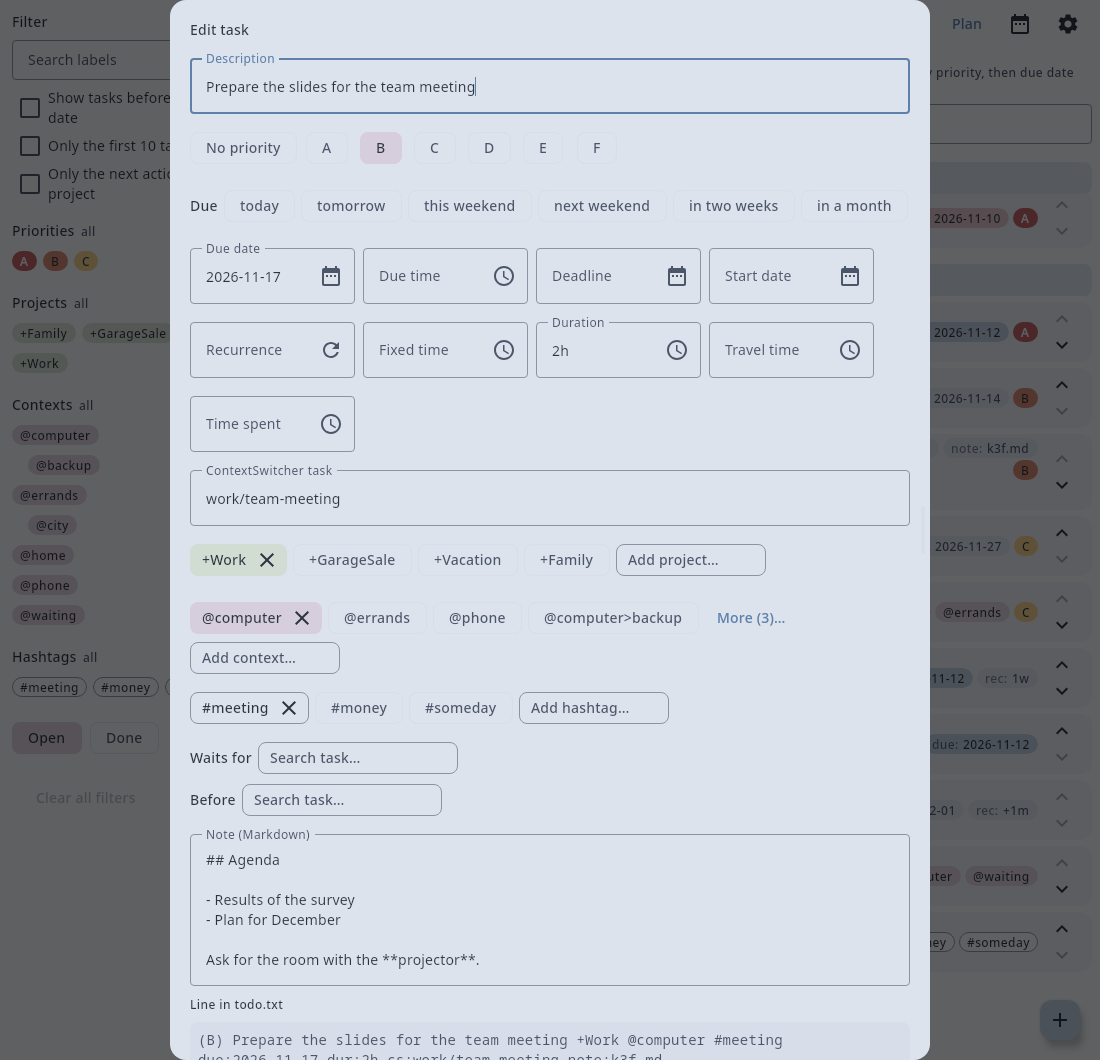
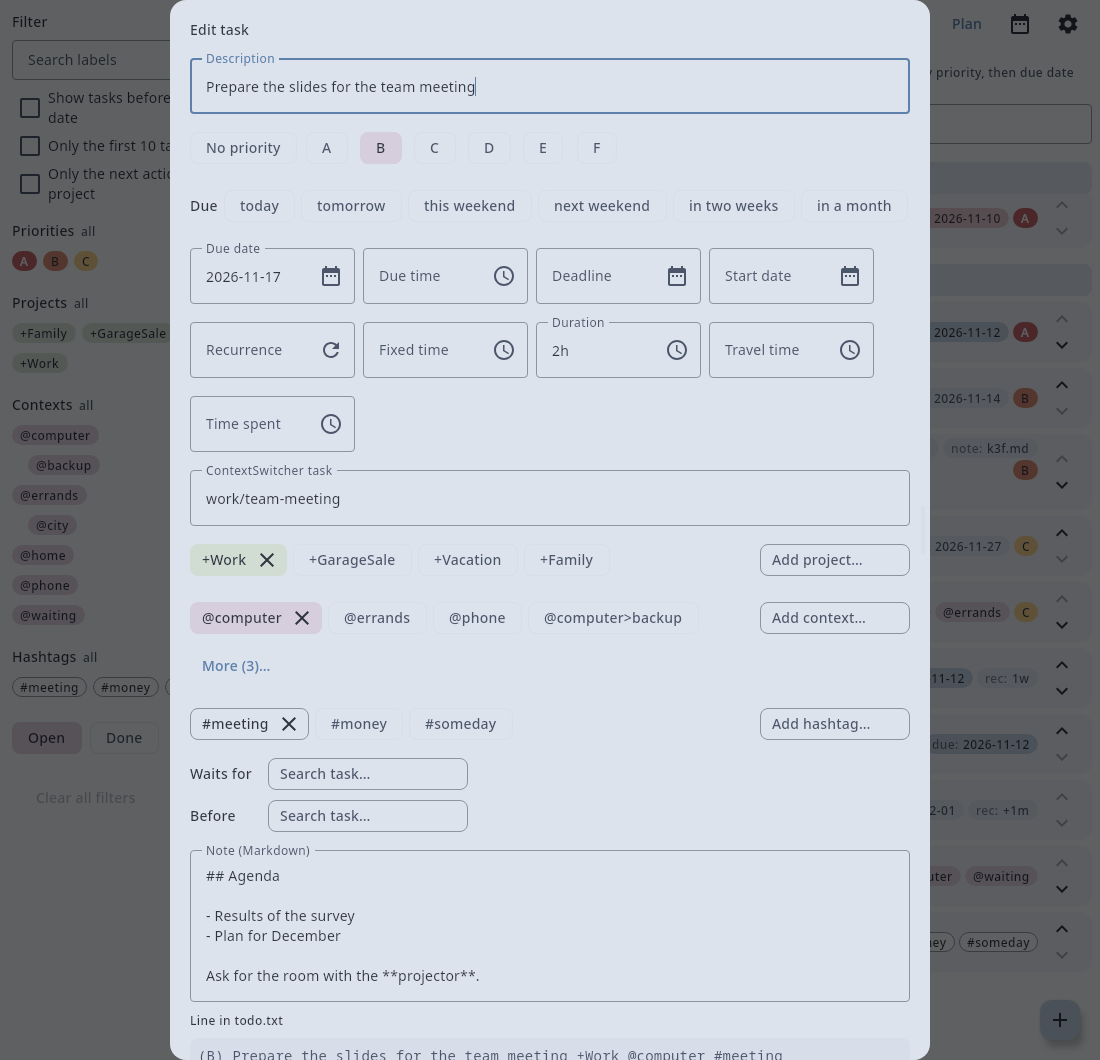
Align the add fields and the dependency fields in the task dialog
In a wide dialog, the fields to add a project, a context or a hashtag stand at the right end of their rows, one below the other, instead of after the last chip; a narrow one keeps them after the chips. The labels Waits for and Before have one width, so that their search fields start at the same place.

diff --git a/app/src/commonMain/kotlin/io/github/koppor/koppter/ui/EditDialog.kt b/app/src/commonMain/kotlin/io/github/koppor/koppter/ui/EditDialog.kt
@@ -16,6 +16,7 @@ import androidx.compose.foundation.interaction.MutableInteractionSource
 import androidx.compose.foundation.interaction.collectIsHoveredAsState
 import androidx.compose.foundation.layout.Arrangement
 import androidx.compose.foundation.layout.Box
+import androidx.compose.foundation.layout.BoxWithConstraints
 import androidx.compose.foundation.Image
 import androidx.compose.foundation.layout.height
 import androidx.compose.runtime.key
@@ -776,7 +777,8 @@ private fun TaskChoice(label: String, chosen: Set<Int>, others: List<Entry>, onC
     // Without text no suggestions: a file has too many tasks to offer them all.
     val suggestions = if (input.isBlank()) emptyList() else others.filter { !it.task.completed && it.index !in chosen && it.task.description.contains(input.trim(), ignoreCase = true) }.take(5)
     FlowRow(horizontalArrangement = Arrangement.spacedBy(6.dp)) {
-        Text(label, style = MaterialTheme.typography.labelLarge, modifier = Modifier.align(Alignment.CenterVertically))
+        // A fixed width, so that the search fields of *Waits for* and *Before* start at the same place.
+        Text(label, style = MaterialTheme.typography.labelLarge, modifier = Modifier.align(Alignment.CenterVertically).width(72.dp))
         for (entry in others.filter { it.index in chosen }) {
             InputChip(
                 selected = true,
@@ -839,36 +841,7 @@ private fun NameList(
     val top = if (input.isBlank()) matching.sortedByDescending { uses["$sign$it"] ?: 0 }.take(TOP_NAMES) else matching
     val rest = if (input.isBlank()) matching - top.toSet() else emptyList()
     val colors = MaterialTheme.colorScheme
-    FlowRow(horizontalArrangement = Arrangement.spacedBy(6.dp)) {
-        for (name in names) {
-            InputChip(
-                selected = true,
-                onClick = { onChange(names - name) },
-                label = { Text("$sign$name") },
-                trailingIcon = { Icon(Icons.Default.Close, contentDescription = "Remove $kind $name") },
-                colors = InputChipDefaults.inputChipColors(
-                    selectedContainerColor = chipColors.first,
-                    selectedLabelColor = chipColors.second,
-                    selectedTrailingIconColor = chipColors.second,
-                ),
-                border = if (outlined) InputChipDefaults.inputChipBorder(true, selected = true, selectedBorderColor = colors.outline, selectedBorderWidth = 1.dp) else null,
-                modifier = Modifier.testTag("$tag-$name"),
-            )
-        }
-        for (name in top) {
-            SuggestionChip(onClick = { add(name) }, label = { Text("$sign$name") }, modifier = Modifier.testTag("$tag-suggest-$name"))
-        }
-        if (rest.isNotEmpty()) {
-            // A button, not a chip: as a chip it read as one more name.
-            TextButton(onClick = { more = !more }, modifier = Modifier.testTag("$tag-more")) { Text(if (more) "Less" else "More (${rest.size})…") }
-        }
-        if (more && rest.isNotEmpty()) {
-            Row(Modifier.fillMaxWidth().horizontalScroll(rememberScrollState()).testTag("$tag-rest"), horizontalArrangement = Arrangement.spacedBy(6.dp)) {
-                for (name in rest) {
-                    SuggestionChip(onClick = { add(name) }, label = { Text("$sign$name") }, modifier = Modifier.testTag("$tag-suggest-$name"))
-                }
-            }
-        }
+    val field: @Composable (Modifier) -> Unit = { modifier ->
         BasicTextField(
             value = input,
             onValueChange = { if (it.endsWith(' ')) add(it) else input = it },
@@ -877,7 +850,7 @@ private fun NameList(
             cursorBrush = SolidColor(colors.primary),
             keyboardOptions = KeyboardOptions(imeAction = ImeAction.Done),
             keyboardActions = KeyboardActions(onDone = { add(input) }),
-            modifier = Modifier.align(Alignment.CenterVertically).width(150.dp).height(32.dp)
+            modifier = modifier.width(150.dp).height(32.dp)
                 .border(1.dp, colors.outline, MaterialTheme.shapes.small).testTag("$tag-add"),
             decorationBox = { field ->
                 Box(Modifier.padding(horizontal = 12.dp), contentAlignment = Alignment.CenterStart) {
@@ -886,6 +859,47 @@ private fun NameList(
                 }
             },
         )
+    }
+    BoxWithConstraints {
+        // Wide: the field at the right end of a row of its own, so that the fields of projects, contexts and hashtags stand one below the other.
+        // Narrow: after the chips, as a column of its own would leave the chips one per line.
+        val wide = maxWidth >= 600.dp
+        Row(horizontalArrangement = Arrangement.spacedBy(6.dp)) {
+            FlowRow(Modifier.weight(1f), horizontalArrangement = Arrangement.spacedBy(6.dp)) {
+                for (name in names) {
+                    InputChip(
+                        selected = true,
+                        onClick = { onChange(names - name) },
+                        label = { Text("$sign$name") },
+                        trailingIcon = { Icon(Icons.Default.Close, contentDescription = "Remove $kind $name") },
+                        colors = InputChipDefaults.inputChipColors(
+                            selectedContainerColor = chipColors.first,
+                            selectedLabelColor = chipColors.second,
+                            selectedTrailingIconColor = chipColors.second,
+                        ),
+                        border = if (outlined) InputChipDefaults.inputChipBorder(true, selected = true, selectedBorderColor = colors.outline, selectedBorderWidth = 1.dp) else null,
+                        modifier = Modifier.testTag("$tag-$name"),
+                    )
+                }
+                for (name in top) {
+                    SuggestionChip(onClick = { add(name) }, label = { Text("$sign$name") }, modifier = Modifier.testTag("$tag-suggest-$name"))
+                }
+                if (rest.isNotEmpty()) {
+                    // A button, not a chip: as a chip it read as one more name.
+                    TextButton(onClick = { more = !more }, modifier = Modifier.testTag("$tag-more")) { Text(if (more) "Less" else "More (${rest.size})…") }
+                }
+                if (more && rest.isNotEmpty()) {
+                    Row(Modifier.fillMaxWidth().horizontalScroll(rememberScrollState()).testTag("$tag-rest"), horizontalArrangement = Arrangement.spacedBy(6.dp)) {
+                        for (name in rest) {
+                            SuggestionChip(onClick = { add(name) }, label = { Text("$sign$name") }, modifier = Modifier.testTag("$tag-suggest-$name"))
+                        }
+                    }
+                }
+                if (!wide) field(Modifier.align(Alignment.CenterVertically))
+            }
+            // The top padding centers the field on the first row of chips, which are 48 dp high with their touch area.
+            if (wide) field(Modifier.padding(top = 8.dp))
+        }
     }
 }
 

diff --git a/app/src/desktopTest/kotlin/io/github/koppor/koppter/ui/ScreenshotTest.kt b/app/src/desktopTest/kotlin/io/github/koppor/koppter/ui/ScreenshotTest.kt
@@ -360,6 +360,12 @@ class ScreenshotTest {
             onNodeWithTag("edit-context-more").performScrollTo().performClick()
             onNodeWithTag("edit-context-rest").performScrollTo()
         }
+        screen("edit-names") {
+            onNodeWithTag("list-switch").performClick()
+            onNodeWithText("Prepare the slides for the team meeting", useUnmergedTree = true).performClick()
+            onNodeWithTag("edit-dialog").assertExists()
+            onNodeWithTag("edit-before-add").performScrollTo()
+        }
         // On a phone, the switch lies outside of the row of the switches until it is scrolled there.
         screen("family", members = true) { onNodeWithTag("family-switch").performScrollTo().performClick() }
         screen("settings-members", members = true) {

diff --git a/docs/requirements/ui.md b/docs/requirements/ui.md
@@ -694,7 +694,8 @@ Needs: impl, utest
 The resulting line is shown below the fields in a monospaced font.
 A heading names the dialog: *New task* or *Edit task*.
 The description starts with the cursor at its end.
-Projects, contexts and hashtags are chips: those of the task, then the three known ones that the most open tasks carry, to add with a click, then *More…*, then a field of the size of a chip to search for a name or add another one.
+Projects, contexts and hashtags are chips: those of the task, then the three known ones that the most open tasks carry, to add with a click, then *More…*.
+A field of the size of a chip to search for a name or add another one stands at the right end of the row in a dialog at least 600 dp wide, so that the three fields stand one below the other; in a narrower one it follows the chips, as a column of its own would leave one chip per line.
 Adding a known name is what the user does here most often, and a file has dozens of them: all as chips would push the fields below out of view on a phone.
 *More…* shows the other known names in one row that scrolls sideways, in the order of the hierarchy; *Less* hides them again.
 Typing into the field shows, instead, all known ones that contain the typed text, so that a context below another one is found by its last level.
@@ -716,6 +717,7 @@ Needs: impl, utest
 `dsn~edit-dependencies~1`
 
 Below the hashtags, `EditDialog` has the rows *Waits for* and *Before*: the chosen tasks as chips, and a field whose text suggests up to five open tasks whose description contains it.
+The two labels have the same width, so that the two fields start at the same place.
 `waitsFor` and `waitingFor` fill the rows from the tags `id:` and `p:` of the tasks of the file, as topydo writes them.
 `withDependencies` writes the choice back: a task that the task waits for gets `p:` with the `id:` of the task, a task that waits for it gives its `id:` to a `p:` of the task, and a task that needs an `id:` and has none gets the next free number.
 Removing a chip removes only the tag of that dependency.

diff --git a/CHANGELOG.md b/CHANGELOG.md
@@ -9,6 +9,7 @@ and this project adheres to [Calendar Versioning](https://calver.org/) with the 
 
 ### Changed
 
+- In the dialog of a task, the fields to add a project, a context or a hashtag stand one below the other at the right, and the search fields of *Waits for* and *Before* start at the same place.
 - The icon of the button that synchronizes shows whether the file is synchronized, being synchronized or not synchronized; the top bar adds words only for a failure, with its cause. The name of the application is no longer broken into two lines on a phone.
 
 ## [2026-11-21] - 2026-11-21
